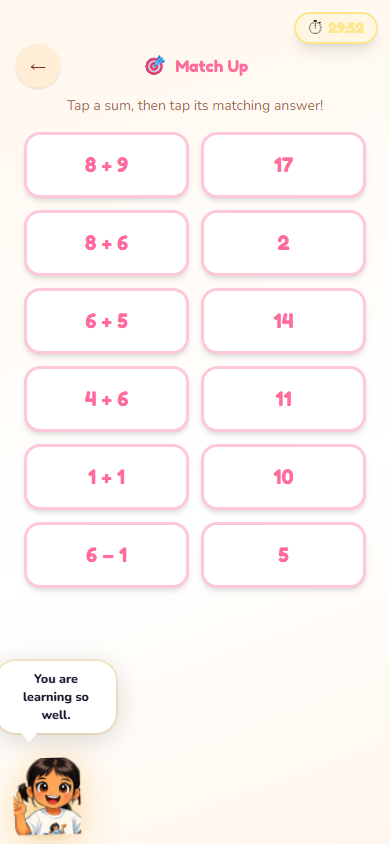
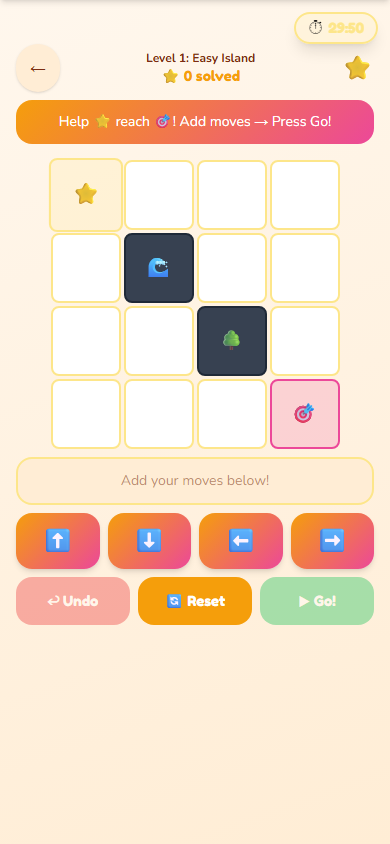
Refresh two more stale landing-page screenshots
Replaced app-activity.png and app-matchup.png with current in-app captures
(a live Counting Falls activity, and real Puzzle Quest gameplay — swapped
in for the old Match Up shot since that mode is now gated behind
completing today's assigned path for a fresh profile, and Puzzle Quest was
readily reachable and directly relevant given today's earlier fix).
Updated alt text and captions to match the new content. Game Arcade's
screenshot is left as-is for now — it requires completing a full daily
path to reach its unlocked state, which felt like more live-account
automation than this pass warranted.

diff --git a/src/pages/LandingPage.jsx b/src/pages/LandingPage.jsx
@@ -625,8 +625,8 @@ export default function LandingPage({ onGetStarted, onSignIn, onTeacherSetup }) 
           <div className="grid grid-cols-2 lg:grid-cols-4 gap-4 md:gap-6">
             {[
               { src: '/screens/app-toddler.png', alt: 'Free British curriculum learning dashboard for a 3-4 year old on Bloom Juniors, ad-free and no downloads needed', caption: 'Tiny Stars (3–4): two tiny games a day', color: '#F97316' },
-              { src: '/screens/app-activity.png', alt: 'Child playing a free EYFS phonics and vocabulary learning game about fruits', caption: 'Tap-to-learn activities with voice guidance', color: '#F59E0B' },
-              { src: '/screens/app-matchup.png', alt: 'Free KS1 maths matching game with Yaagvi the learning mascot cheering a child on', caption: 'Yaagvi cheers along every activity', color: '#DB2777' },
+              { src: '/screens/app-activity.png', alt: 'Free EYFS counting activity with picture-based questions and voice guidance from Yaagvi', caption: 'Tap-to-learn activities with voice guidance', color: '#F59E0B' },
+              { src: '/screens/app-matchup.png', alt: 'Free KS1 logic puzzle game where a child plans moves to guide their character to the goal', caption: 'Puzzle Quest builds early problem-solving skills', color: '#DB2777' },
               { src: '/screens/app-arcade.png', alt: 'Game Arcade reward screen, unlocked after completing daily British curriculum learning activities', caption: 'Finish the path → the arcade opens', color: '#0F766E' },
             ].map((shot, i) => (
               <motion.figure